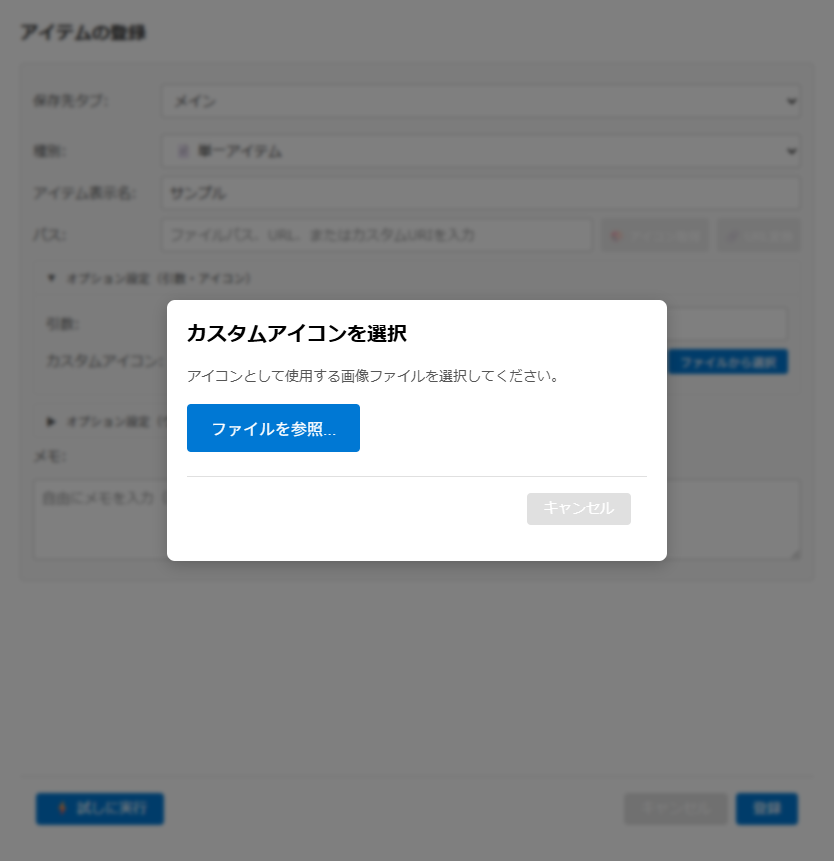
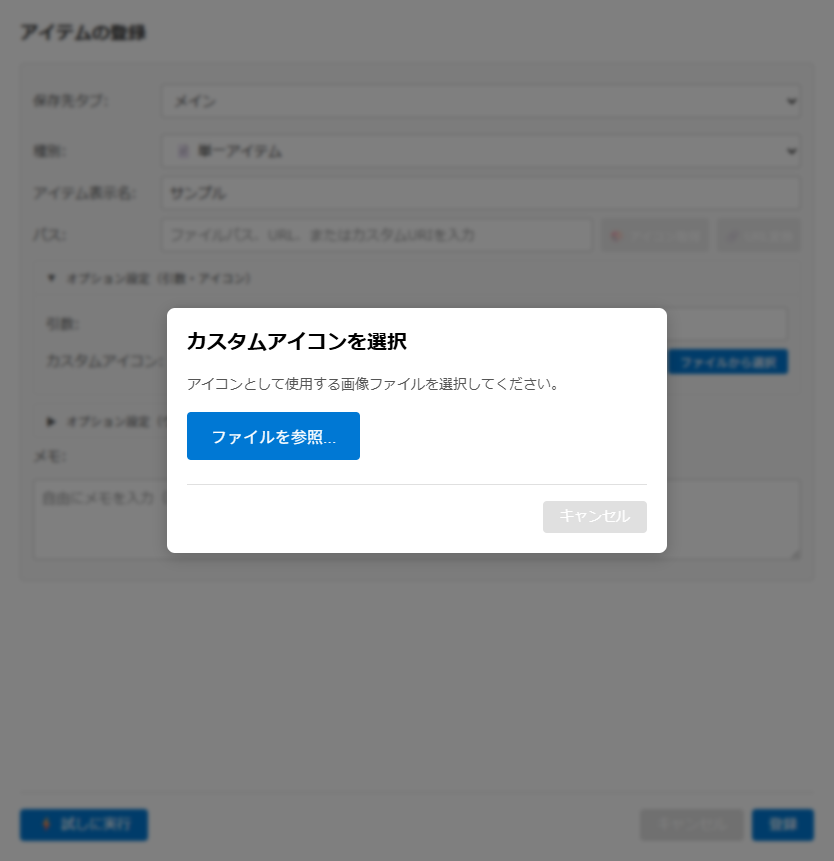
fix: ダイアログのボタン配置のばらつき・ホットキー検証の抜け・グループのアイコン欄を直す（C17〜C19） (#362)
docs 照合で見つかったコード側の疑いのうち、本人の判断（推奨どおり）で 3 件を直す。

- C17: RegisterModal.css と IconProgressDetailModal.css がグローバルに .modal-actions を上書きしていて、
  同じウィンドウのダイアログのフッターが両端寄せになったり、内側に余白が付いたりしていた。
  登録画面側の上書きを消し（右側のボタン群は margin-left: auto で離れるので配置は変わらない）、
  アイコン取得結果側は .icon-detail-modal の中だけに絞る。管理ウィンドウの確認ダイアログは右寄せになる
- C18: ホットキー検証を src/common/utils/hotkeyValidator.ts に切り出し、「修飾キー 1 つ以上 + 通常キー
  ちょうど 1 つ」で判定する。通常キーが無い（Ctrl+Shift）・2 つ以上ある（Ctrl+A+B）値を弾き、
  録画で作れる修飾キー 3 つの組み合わせは通す。到達しなかった「修飾キーが必要」のチェックも働くようにした。単体テスト 7 件
- C19: グループはカスタムアイコンを保存できない（データファイル・ワークスペースファイルの形式に項目がない）のに、
  登録・編集画面とワークスペースのアイテム編集で欄を出していた。グループでは出さない
- 画面仕様（register-modal・hotkey-input・first-launch-setup）と画面イメージ 5 枚を合わせて直す

diff --git a/src/common/utils/hotkeyValidator.test.ts b/src/common/utils/hotkeyValidator.test.ts
@@ -1,0 +1,57 @@
+import { describe, it, expect } from 'vitest';
+
+import { validateHotkey } from './hotkeyValidator';
+
+describe('validateHotkey', () => {
+  it('修飾キー 1 つ以上と通常キー 1 つの組み合わせを受け付ける', () => {
+    expect(validateHotkey('Alt+Space')).toEqual({ isValid: true });
+    expect(validateHotkey('Ctrl+Alt+A')).toEqual({ isValid: true });
+    expect(validateHotkey('Ctrl+Shift+F12')).toEqual({ isValid: true });
+    expect(validateHotkey('CmdOrCtrl+Q')).toEqual({ isValid: true });
+  });
+
+  it('修飾キーが 3 つでも受け付ける（録画で作れる組み合わせ）', () => {
+    expect(validateHotkey('Ctrl+Alt+Shift+A')).toEqual({ isValid: true });
+  });
+
+  it('空や文字列でない値は「指定されていません」', () => {
+    expect(validateHotkey('')).toEqual({
+      isValid: false,
+      reason: 'ホットキーが指定されていません',
+    });
+    expect(validateHotkey(undefined)).toEqual({
+      isValid: false,
+      reason: 'ホットキーが指定されていません',
+    });
+  });
+
+  it('通常キーが 2 つ以上あると弾く', () => {
+    expect(validateHotkey('Ctrl+A+B')).toEqual({
+      isValid: false,
+      reason: '通常キーは 1 つだけにしてください',
+    });
+  });
+
+  it('通常キーが無いと弾く', () => {
+    expect(validateHotkey('Ctrl+Shift')).toEqual({
+      isValid: false,
+      reason: '修飾キーのほかに通常キーが 1 つ必要です',
+    });
+  });
+
+  it('修飾キーが無いと弾く', () => {
+    expect(validateHotkey('A')).toEqual({
+      isValid: false,
+      reason: '修飾キー（Ctrl、Alt、Shift等）が必要です',
+    });
+  });
+
+  it('知らないキー名・空の区切り・同じ修飾キーの重複は形式エラー', () => {
+    const invalidFormat = { isValid: false, reason: 'ホットキーの形式が正しくありません' };
+    expect(validateHotkey('Ctrl+PageUp')).toEqual(invalidFormat);
+    expect(validateHotkey('Ctrl++A')).toEqual(invalidFormat);
+    expect(validateHotkey('Ctrl+a')).toEqual(invalidFormat);
+    expect(validateHotkey('Hyper+A')).toEqual(invalidFormat);
+    expect(validateHotkey('Ctrl+Ctrl+A')).toEqual(invalidFormat);
+  });
+});

diff --git a/src/common/utils/hotkeyValidator.ts b/src/common/utils/hotkeyValidator.ts
@@ -1,0 +1,52 @@
+/**
+ * ホットキー文字列の検証
+ *
+ * Electron のアクセラレーターは「修飾キー 1 つ以上 + 通常キーちょうど 1 つ」の形なので、
+ * それ以外（通常キーが無い・2 つ以上ある・修飾キーが無い）は登録前に弾く。
+ */
+
+const MODIFIER_KEYS = new Set(['Ctrl', 'Alt', 'Shift', 'CmdOrCtrl', 'Command', 'Cmd']);
+
+const KEY_PATTERN = /^(?:[A-Z0-9]|Space|Enter|Tab|Escape|Delete|Backspace|F[1-9]|F1[0-2])$/;
+
+export interface HotkeyValidationResult {
+  isValid: boolean;
+  reason?: string;
+}
+
+const INVALID_FORMAT = 'ホットキーの形式が正しくありません';
+
+export function validateHotkey(hotkey: unknown): HotkeyValidationResult {
+  if (!hotkey || typeof hotkey !== 'string') {
+    return { isValid: false, reason: 'ホットキーが指定されていません' };
+  }
+
+  const parts = hotkey.split('+');
+  if (parts.some((part) => part === '')) {
+    return { isValid: false, reason: INVALID_FORMAT };
+  }
+
+  const key = parts[parts.length - 1];
+  const modifiers = parts.slice(0, -1);
+
+  if (MODIFIER_KEYS.has(key)) {
+    return { isValid: false, reason: '修飾キーのほかに通常キーが 1 つ必要です' };
+  }
+  if (!KEY_PATTERN.test(key)) {
+    return { isValid: false, reason: INVALID_FORMAT };
+  }
+  if (modifiers.length === 0) {
+    return { isValid: false, reason: '修飾キー（Ctrl、Alt、Shift等）が必要です' };
+  }
+  if (modifiers.some((modifier) => KEY_PATTERN.test(modifier))) {
+    return { isValid: false, reason: '通常キーは 1 つだけにしてください' };
+  }
+  if (!modifiers.every((modifier) => MODIFIER_KEYS.has(modifier))) {
+    return { isValid: false, reason: INVALID_FORMAT };
+  }
+  if (new Set(modifiers).size !== modifiers.length) {
+    return { isValid: false, reason: INVALID_FORMAT };
+  }
+
+  return { isValid: true };
+}

diff --git a/src/main/services/settingsService.ts b/src/main/services/settingsService.ts
@@ -7,6 +7,7 @@ import {
   SETTINGS_SCHEMA_REF,
 } from '@common/types';
 import type { AppSettings } from '@common/types';
+import { validateHotkey } from '@common/utils/hotkeyValidator';
 import logger from '@common/logger';
 
 import PathManager from '../config/pathManager.js';
@@ -191,26 +192,9 @@ export class SettingsService {
     logger.info({ keys }, 'Settings reset to defaults (partial)');
   }
 
+  /** 判定は src/common/utils/hotkeyValidator.ts（修飾キー 1 つ以上 + 通常キーちょうど 1 つ） */
   public validateHotkey(hotkey: string): { isValid: boolean; reason?: string } {
-    if (!hotkey || typeof hotkey !== 'string') {
-      return { isValid: false, reason: 'ホットキーが指定されていません' };
-    }
-
-    // 基本的なパターンチェック
-    const pattern =
-      /^(Ctrl|Alt|Shift|CmdOrCtrl|Command|Cmd)\+(Ctrl|Alt|Shift|CmdOrCtrl|Command|Cmd|[A-Z0-9]|Space|Enter|Tab|Escape|Delete|Backspace|F[1-9]|F1[0-2])+(\+([A-Z0-9]|Space|Enter|Tab|Escape|Delete|Backspace|F[1-9]|F1[0-2]))*$/;
-    if (!pattern.test(hotkey)) {
-      return { isValid: false, reason: 'ホットキーの形式が正しくありません' };
-    }
-
-    // 修飾キーが最低1つ含まれているかチェック
-    const modifiers = ['Ctrl', 'Alt', 'Shift', 'CmdOrCtrl', 'Command', 'Cmd'];
-    const hasModifier = modifiers.some((modifier) => hotkey.includes(modifier));
-    if (!hasModifier) {
-      return { isValid: false, reason: '修飾キー（Ctrl、Alt、Shift等）が必要です' };
-    }
-
-    return { isValid: true };
+    return validateHotkey(hotkey);
   }
 
   private async getAppVersion(): Promise<string> {

diff --git a/src/renderer/styles/components/RegisterModal.css b/src/renderer/styles/components/RegisterModal.css
@@ -381,16 +381,12 @@
   font-weight: 500;
 }
 
-/* モーダルアクションボタンのレイアウト調整 */
-.modal-actions {
-  display: flex;
-  justify-content: space-between;
-  align-items: center;
-  gap: var(--spacing-sm);
-  padding-top: var(--spacing-lg);
-  border-top: var(--border-light);
-}
-
+/*
+ * フッターの右側のボタン群（キャンセル・登録など）。
+ * .modal-actions 自体は Modal.css の右寄せを使い、左に置く「試しに実行」とは
+ * margin-left: auto で離す。ここで .modal-actions を上書きすると、このファイルを読む
+ * ウィンドウの全ダイアログのフッターが両端寄せになるので、上書きしない。
+ */
 .modal-actions-right {
   display: flex;
   gap: var(--spacing-sm);
@@ -476,7 +472,6 @@
   color: var(--text-disabled);
   cursor: not-allowed;
 }
-
 
 /* ヘルプボックス */
 .help-box {

diff --git a/src/renderer/components/WorkspaceItemEditModal.tsx b/src/renderer/components/WorkspaceItemEditModal.tsx
@@ -334,9 +334,8 @@ const WorkspaceItemEditModal: React.FC<WorkspaceItemEditModalProps> = ({
                     </div>
                   )}
 
-                  {(item.itemCategory === 'item' ||
-                    item.itemCategory === 'group' ||
-                    item.itemCategory === 'layout') && (
+                  {/* グループはカスタムアイコンを保存できない（ワークスペースファイルの形式に項目がない）ので出さない */}
+                  {(item.itemCategory === 'item' || item.itemCategory === 'layout') && (
                     <CustomIconEditor
                       customIconPreview={customIconPreviews[0]}
                       onSelectClick={() => openCustomIconPicker(0)}

diff --git a/src/renderer/components/RegisterItemForm.tsx b/src/renderer/components/RegisterItemForm.tsx
@@ -363,10 +363,8 @@ const RegisterItemForm: React.FC<RegisterItemFormProps> = ({
         </>
       )}
 
-      {(item.itemCategory === 'group' ||
-        item.itemCategory === 'clipboard' ||
-        item.itemCategory === 'layout') &&
-        customIconEditor}
+      {/* グループはカスタムアイコンを保存できない（データファイルの形式に項目がない）ので出さない */}
+      {(item.itemCategory === 'clipboard' || item.itemCategory === 'layout') && customIconEditor}
 
       <div className="form-group">
         <label>メモ:</label>

diff --git a/src/renderer/styles/components/IconProgressDetailModal.css b/src/renderer/styles/components/IconProgressDetailModal.css
@@ -202,11 +202,11 @@
   cursor: text;
 }
 
-.modal-actions {
+/* この画面のフッターだけ（グローバルに書くと、同じウィンドウのダイアログにも効いてしまう） */
+.icon-detail-modal .modal-actions {
   display: flex;
   justify-content: flex-end;
   gap: var(--spacing-sm);
   padding: var(--spacing-lg);
   border-top: var(--border-light);
 }
-

diff --git a/docs/screens/register-modal.md b/docs/screens/register-modal.md
@@ -80,7 +80,7 @@
 | **フォーム**         | クリップボード編集                 | 現在のクリップボードの内容（プレビュー・フォーマット・推定サイズ）と「このクリップボードを保存」ボタン、取り込んだデータの情報                                                                                                         | 種別がクリップボードの場合                                                                           | [5.19](#519-クリップボードを取り込む)                                                                                                                                                                                                                                                                                                                                                                              |
 | **フォーム**         | 並べるウィンドウ一覧               | 並べるウィンドウ（タイトル・位置・サイズ・起動）の一覧。行ごとに編集・削除・展開                                                                                                                                                       | 種別がウィンドウ配置の場合                                                                           | [5.16](#516-ウィンドウ配置を設定)                                                                                                                                                                                                                                                                                                                                                                                  |
 | **フォーム**         | 「+ 今のウィンドウから追加」ボタン | 実行中のウィンドウを選んで一覧に追加する画面を開く                                                                                                                                                                                     | 種別がウィンドウ配置の場合                                                                           | [5.16.1](#5161-今のウィンドウから追加)                                                                                                                                                                                                                                                                                                                                                                             |
-| **フォーム**         | カスタムアイコンセクション         | アイコンプレビュー、選択/削除ボタン                                                                                                                                                                                                    | 種別が単一アイテム・グループ・クリップボード・ウィンドウ配置の場合                                   | [5.12](#512-カスタムアイコンを設定)                                                                                                                                                                                                                                                                                                                                                                                |
+| **フォーム**         | カスタムアイコンセクション         | アイコンプレビュー、選択/削除ボタン                                                                                                                                                                                                    | 種別が単一アイテム・クリップボード・ウィンドウ配置の場合（グループのアイコンは 📦 固定）             | [5.12](#512-カスタムアイコンを設定)                                                                                                                                                                                                                                                                                                                                                                                |
 | **フォーム**         | メモ入力欄                         | ラベル「メモ:」。アイテムに付ける自由記述のメモ（複数行・任意）。プレースホルダー「自由にメモを入力（任意）」                                                                                                                          | 常時表示                                                                                             | [5.17](#517-メモを入力)                                                                                                                                                                                                                                                                                                                                                                                            |
 | **フッター**         | ⚡ 試しに実行ボタン                | 保存せずにアイテムを実行                                                                                                                                                                                                               | グループ・フォルダ取込・クリップボード以外（単一アイテム・ウィンドウ操作・ウィンドウ配置）           | [5.15](#515-試しに実行ボタンをクリック)                                                                                                                                                                                                                                                                                                                                                                            |
 | **フッター**         | 削除ボタン                         | 編集中のアイテムを削除する（確認ダイアログあり）                                                                                                                                                                                       | 編集モードで、メインウィンドウから開いた場合（管理ウィンドウから開いた場合は非表示）                 | [5.18](#518-削除ボタンをクリック)                                                                                                                                                                                                                                                                                                                                                                                  |
@@ -147,7 +147,7 @@
 | グループアイテムリスト                                               |      -       |      -       |    ○     |       -        |       -        |       -        |
 | クリップボードキャプチャ                                             |      -       |      -       |    -     |       -        |       ○        |       -        |
 | 並べるウィンドウ一覧                                                 |      -       |      -       |    -     |       -        |       -        |       ○        |
-| カスタムアイコン                                                     |      ○       |      -       |    ○     |       -        |       ○        |       ○        |
+| カスタムアイコン                                                     |      ○       |      -       |    -     |       -        |       ○        |       ○        |
 | メモ                                                                 |      ○       |      ○       |    ○     |       ○        |       ○        |       ○        |
 
 #### オプション設定の折りたたみ

diff --git a/docs/screens/hotkey-input.md b/docs/screens/hotkey-input.md
@@ -129,7 +129,7 @@
 - `Ctrl+Shift`（非修飾キーなし）
 - `Ctrl`（キーが1つだけ）
 
-修飾キーの数に上限はなく、3つ以上の修飾キーを含むホットキーも確定します。ただし、確定したあとのバリデーション（[4.4](#44-バリデーション)）で形式エラーになります。
+修飾キーの数に上限はなく、3つ以上の修飾キーを含むホットキーも確定します。非修飾キーを2つ以上同時に押すと（例: `Ctrl+A+B`）確定はしますが、確定したあとのバリデーション（[4.4](#44-バリデーション)）で無効になります。
 
 ### 4.4. バリデーション
 
@@ -142,11 +142,14 @@
 
 ホットキーの値に対して以下がチェックされます。他のアプリケーションとの競合やシステム予約キーかどうかは確認しません。値が空のときは検証せず、下の「バリデーション結果」のとおり扱います。
 
-| チェック                                                                                                                                                                            | 無効のときのメッセージ             |
-| ----------------------------------------------------------------------------------------------------------------------------------------------------------------------------------- | ---------------------------------- |
-| 形式が「修飾キー + 1つ以上のキー」でない（先頭は修飾キー。2つ目は修飾キーまたはキー、3つ目以降はキーだけ。キーは英数字1文字、Space、Enter、Tab、Escape、Delete、Backspace、F1-F12） | ホットキーの形式が正しくありません |
+| チェック                                                                                                                                                           | 無効のときのメッセージ                   |
+| ------------------------------------------------------------------------------------------------------------------------------------------------------------------ | ---------------------------------------- |
+| 最後のキーが修飾キー（非修飾キーがない。例: `Ctrl+Shift`）                                                                                                         | 修飾キーのほかに通常キーが 1 つ必要です  |
+| 修飾キーがない（例: `A`）                                                                                                                                          | 修飾キー（Ctrl、Alt、Shift等）が必要です |
+| 非修飾キーが 2 つ以上ある（例: `Ctrl+A+B`）                                                                                                                        | 通常キーは 1 つだけにしてください        |
+| 上のどれでもない形式の誤り（知らないキー名、同じ修飾キーの重複、区切りの「+」が続くなど。キーは英数字1文字、Space、Enter、Tab、Escape、Delete、Backspace、F1-F12） | ホットキーの形式が正しくありません       |
 
-修飾キーは2つまでです。3つ以上含むホットキー（例: `Ctrl+Shift+Alt+A`）は形式エラーになります。
+修飾キーの数に上限はありません（例: `Ctrl+Shift+Alt+A` は有効）。
 
 #### バリデーション結果
 

diff --git a/docs/screens/first-launch-setup.md b/docs/screens/first-launch-setup.md
@@ -87,11 +87,7 @@
 
 #### バリデーション詳細
 
-| チェック項目     | 説明                             | エラーメッセージ                             |
-| ---------------- | -------------------------------- | -------------------------------------------- |
-| 空チェック       | ホットキーが指定されているか     | 「ホットキーが指定されていません」           |
-| 形式チェック     | 下記の有効なキーの組み合わせか   | 「ホットキーの形式が正しくありません」       |
-| 修飾キーチェック | Ctrl/Alt/Shift等が含まれているか | 「修飾キー（Ctrl、Alt、Shift等）が必要です」 |
+形は「修飾キー 1 つ以上 + 通常キーちょうど 1 つ」。空のとき、修飾キーがないとき、通常キーがない・2 つ以上あるとき、知らないキー名のときは、入力欄の下に理由を表示する。チェックと文言の一覧は [ホットキー入力 - バリデーション](./hotkey-input.md#44-バリデーション) を参照。
 
 **有効なキーパターン**:
 
